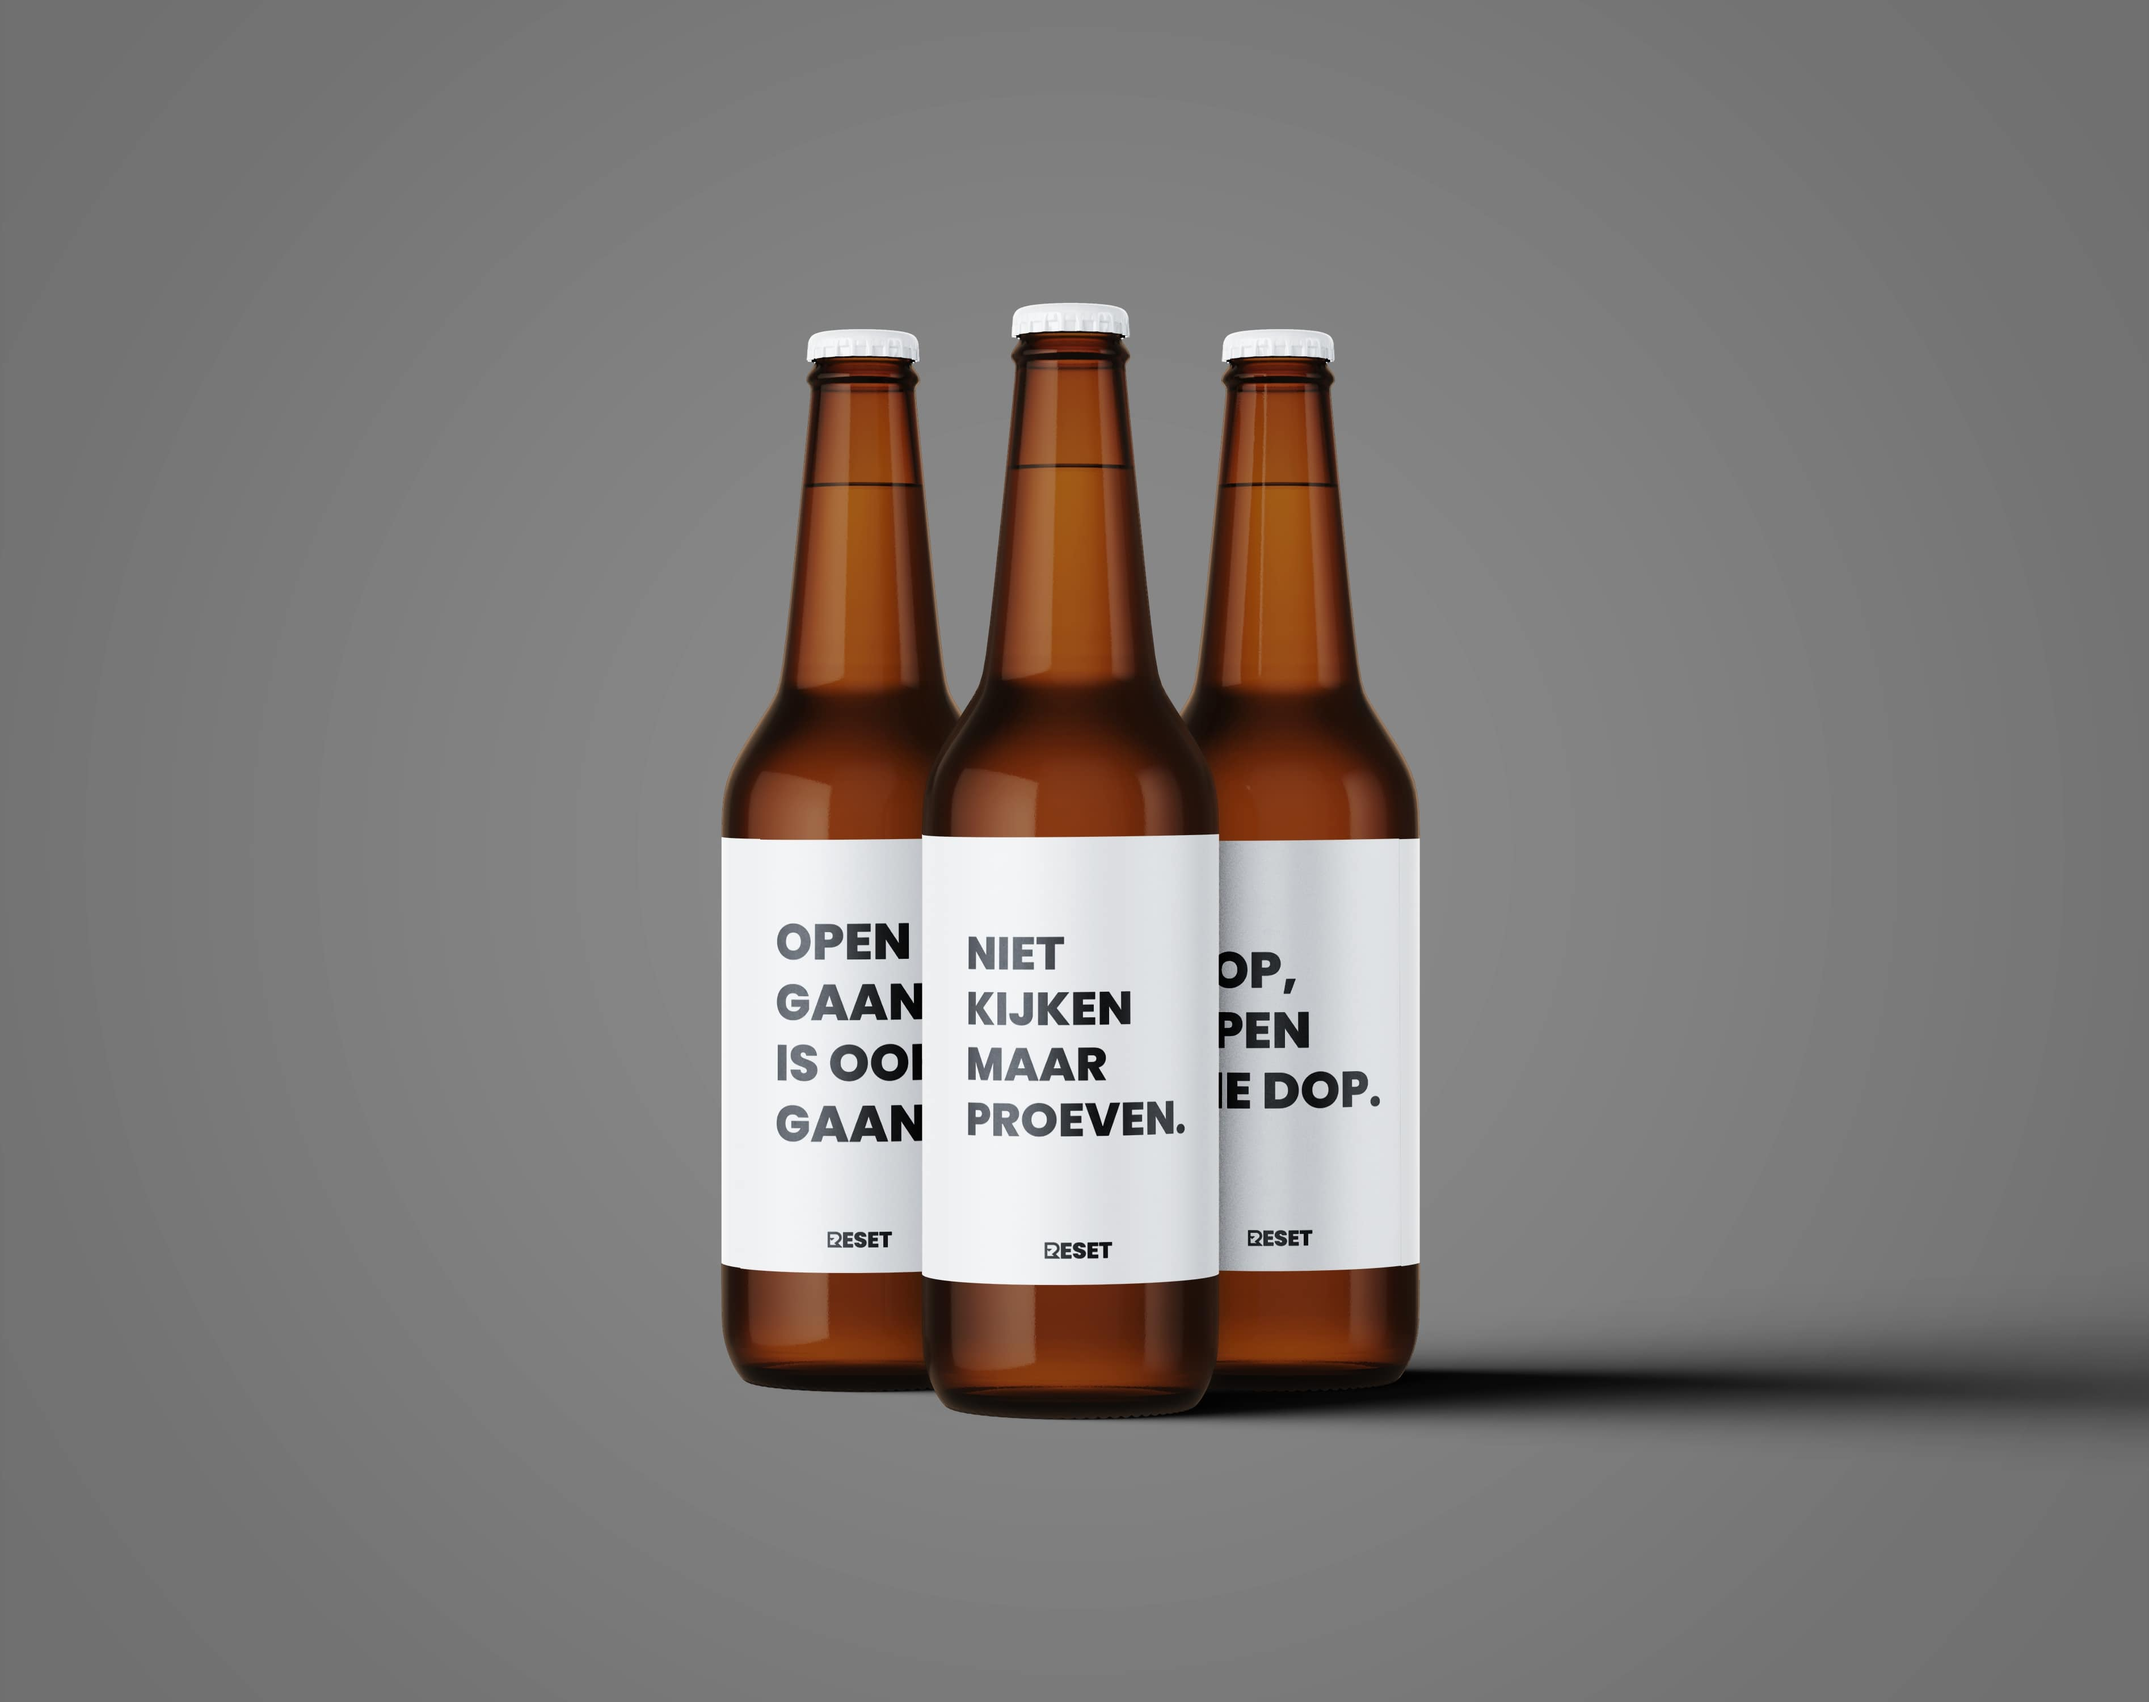
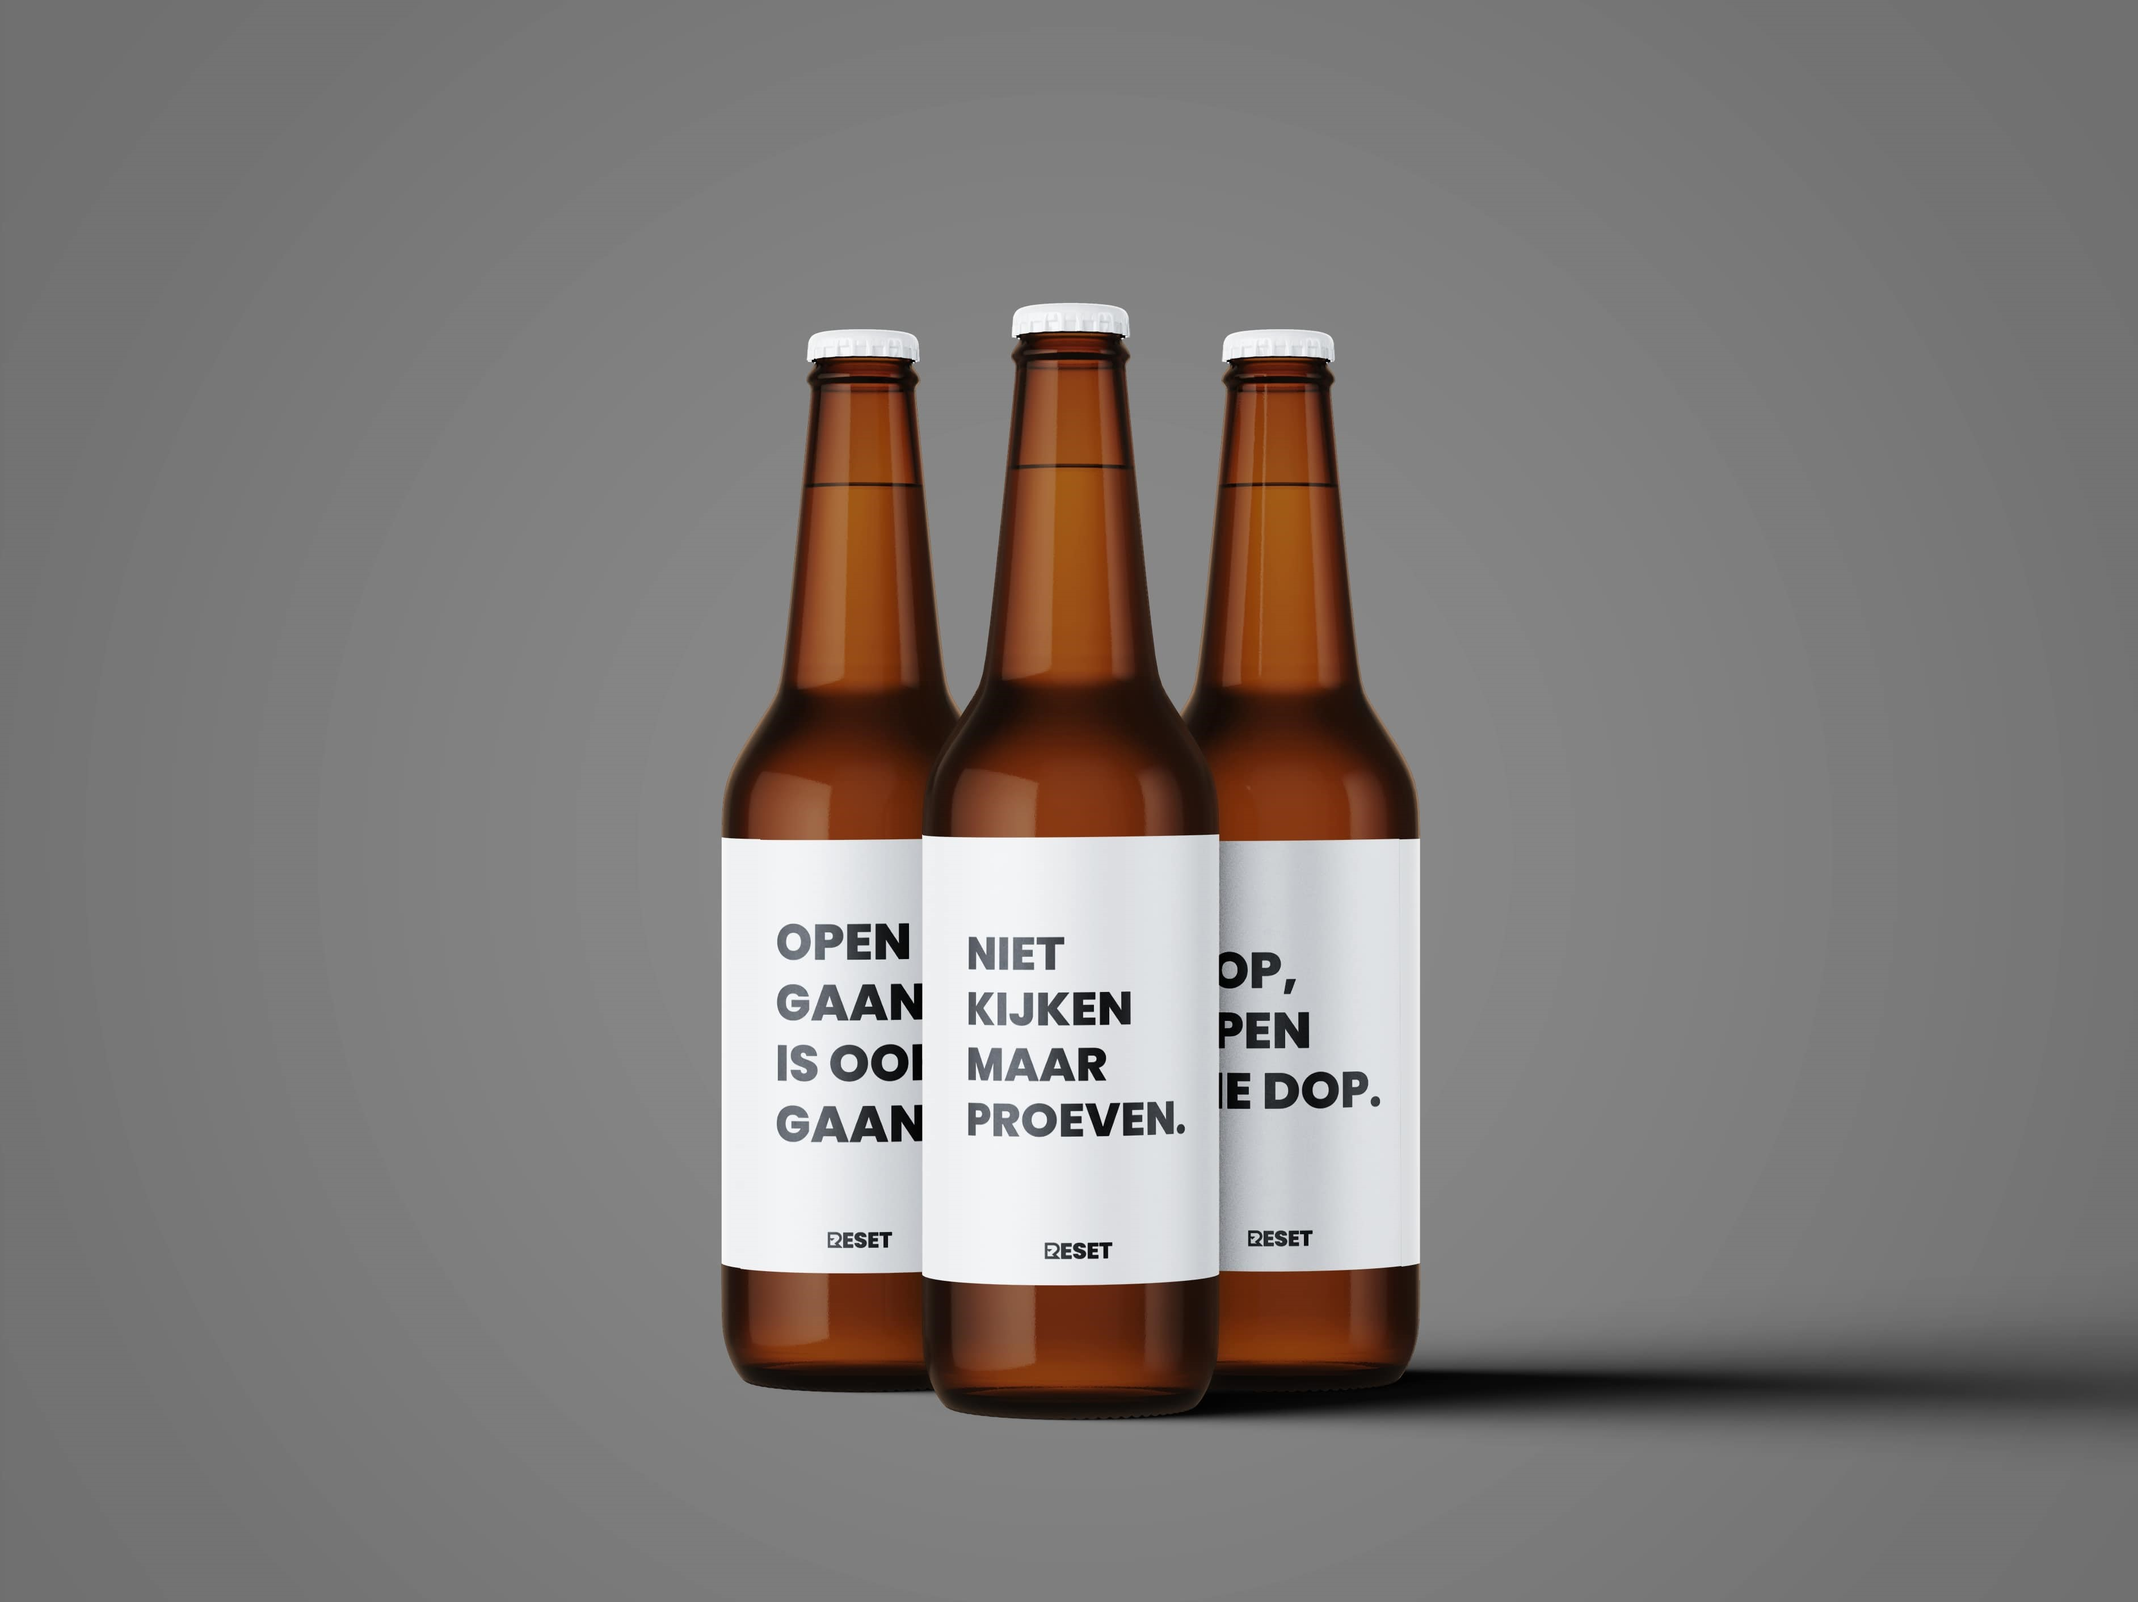
photo update

Changed region(s): [[0.3105, 0.1559, 1.0, 0.904]]

diff --git a/index.html b/index.html
@@ -116,7 +116,7 @@
         <!-- Card #3 -->
         <div class="col-sm-6 col-lg-4 col-xl-3">
           <div class="card shadow h-100">
-            <img class="img-fluid" src="images/RESET_Mockup_3bier.jpg" alt="ThreeBeer">
+            <img class="img-fluid" src="images/driebier2.jpg" alt="ThreeBeer">
             <div class="card-body">
               <h5 class="fw-bold">Brand Values&nbsp;</h5>
               <p class="card-text">Acceptance, equality, fairness &amp; simplicity</p>
@@ -129,7 +129,7 @@
         <!-- Card #4 -->
         <div class="col-sm-6 col-lg-4 col-xl-3">
           <div class="card shadow h-100">
-            <img class="img-fluid" src="images/PersonaSteveSmall.jpg" alt="">
+            <img class="img-fluid" src="images/Steve4.jpg" alt="">
             <div class="card-body">
               <h5 class="fw-bold">Persona</h5>
               <p class="card-text">Our ideal customer is Steve. </p>
